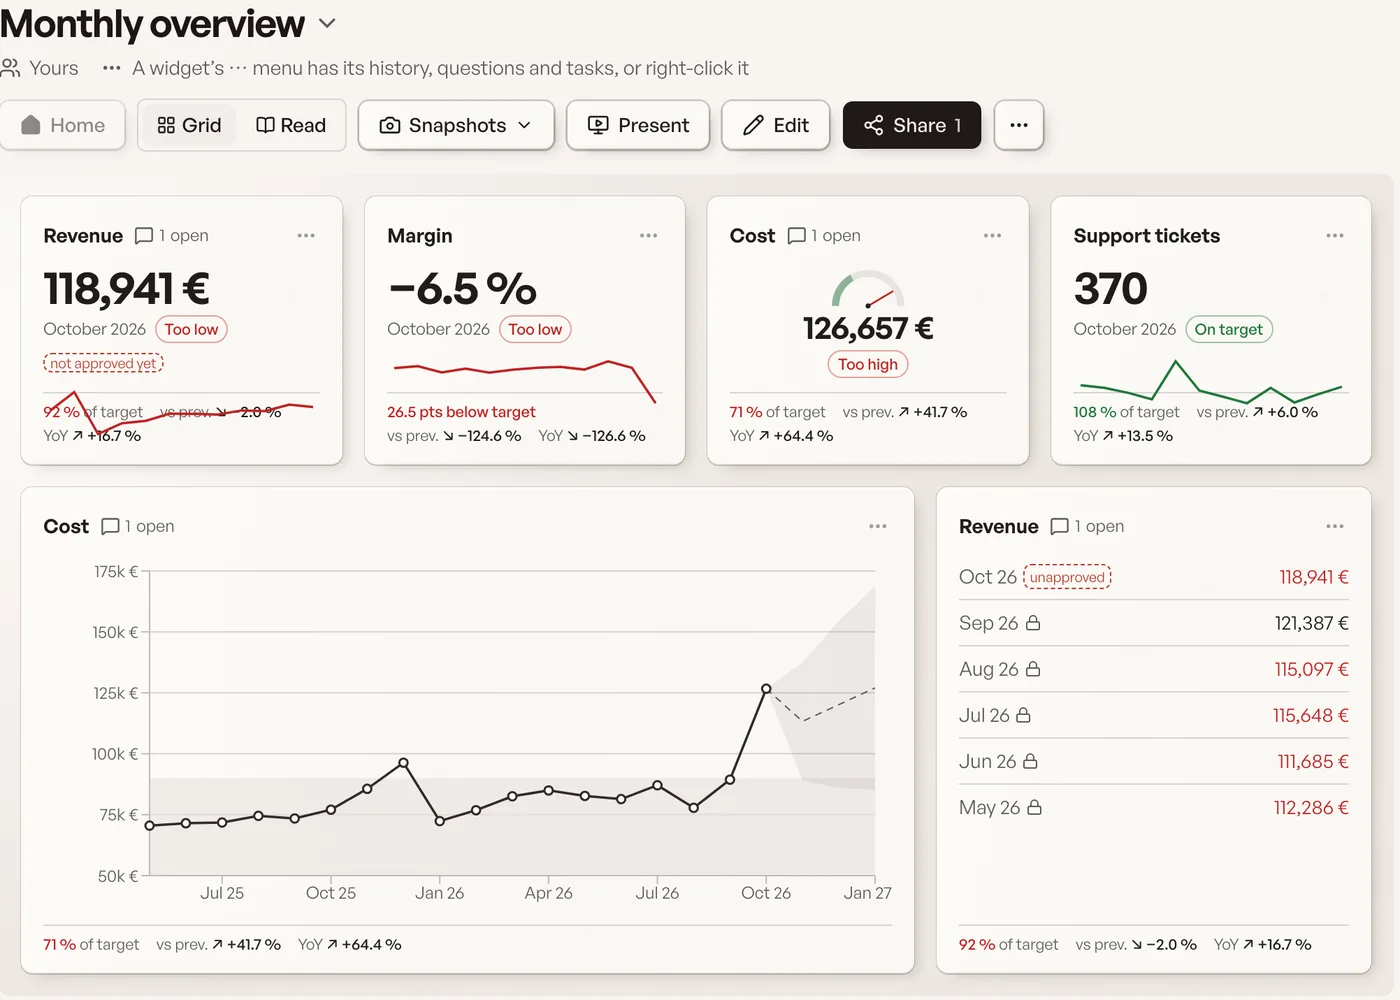
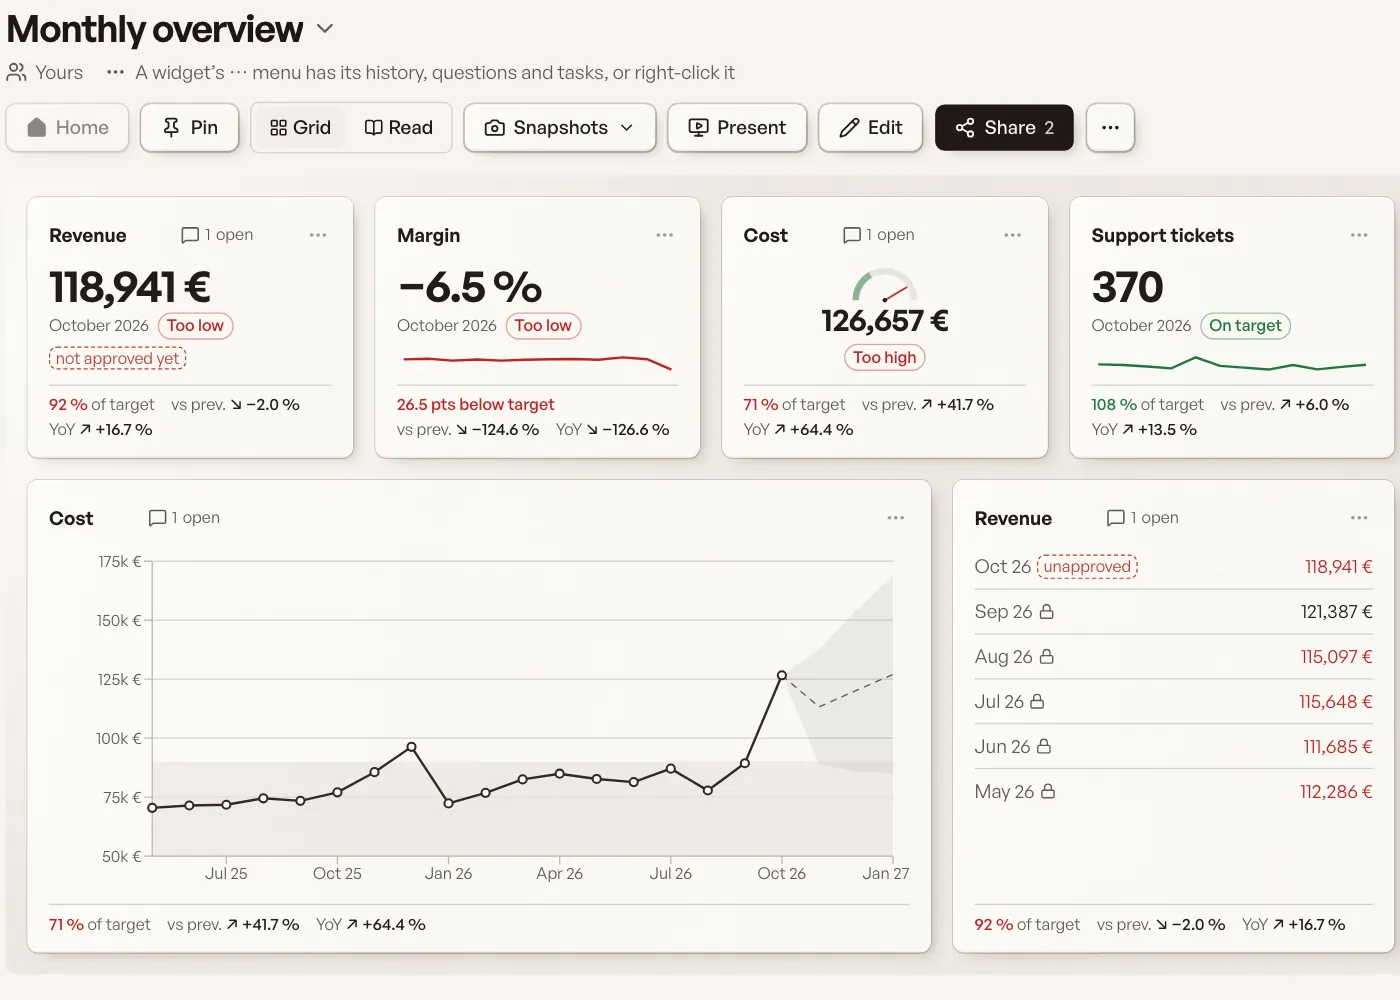
Sign-in page: retake the dashboard picture, no gap under the text (#605)
The picture was taken before the sparkline fix (#576); retaken from a production build of main (1400x1000, 61 KB). The aside no longer spreads its content to both ends, so the picture follows the text on a tall form.

Claude-Session: https://claude.ai/code/session_013G5mg5887Xe3mCyDYsobzp

diff --git a/apps/web/src/components/auth-shell.tsx b/apps/web/src/components/auth-shell.tsx
@@ -13,7 +13,7 @@ export function AuthShell({ children, className }: { children: React.ReactNode; 
   return (
     <Card className={cn("mx-auto mt-4 w-full max-w-5xl gap-0 p-0 sm:mt-8 md:grid md:grid-cols-[minmax(0,26rem)_minmax(0,1fr)]", className)}>
       <div className="flex min-w-0 flex-col justify-center p-6 sm:p-10">{children}</div>
-      <aside aria-label="About Ziffr" className="flex min-w-0 flex-col justify-between gap-8 overflow-hidden border-t border-border bg-muted p-6 sm:px-10 md:border-l md:border-t-0 md:pb-0 md:pr-0 md:pt-10">
+      <aside aria-label="About Ziffr" className="flex min-w-0 flex-col justify-start gap-8 overflow-hidden border-t border-border bg-muted p-6 sm:px-10 md:border-l md:border-t-0 md:pb-0 md:pr-0 md:pt-10">
         <div className="max-w-sm md:pr-10">
           <p className="text-[length:var(--text-lg)] font-medium leading-snug">The numbers you care about, in one place.</p>
           <p className="mt-2 text-sm text-muted-foreground">Define a metric, and Ziffr asks people for its values, or systems send them in. Everyone sees, shares and discusses them over time.</p>

diff --git a/.changeset/sign-in-picture.md b/.changeset/sign-in-picture.md
@@ -1,0 +1,5 @@
+---
+"@ziffr/web": patch
+---
+
+The picture beside the sign-in form shows the current dashboard (the sparkline no longer runs over the comparison line), and sits right under the text instead of far below it.
